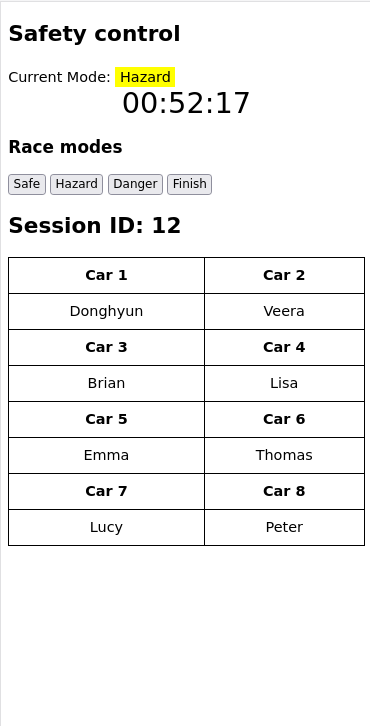
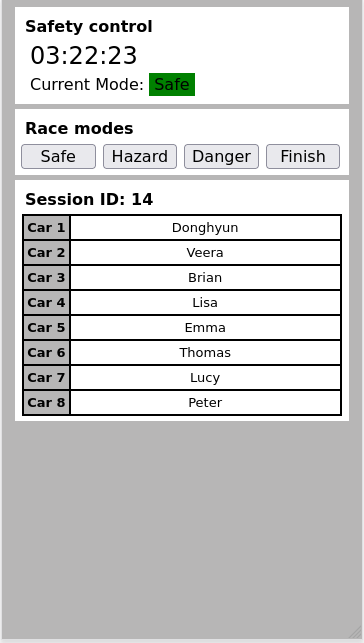
Update readme screenshots

diff --git a/README.md b/README.md
@@ -123,7 +123,8 @@ When the race starts, buttons for each car in the current race appear to the lap
 
 Route: `/race-control`
 
-Race control interface is designed to be used on a small mobile device like a smart phone by the safety official.
+Race control interface is designed to be used on a small mobile device like a smart phone by the safety official.  
+The interface works both in landscape and portrait orientation.
 
 Safety official controls the race by starting the race session, controlling current race mode and ending the race session.
 
